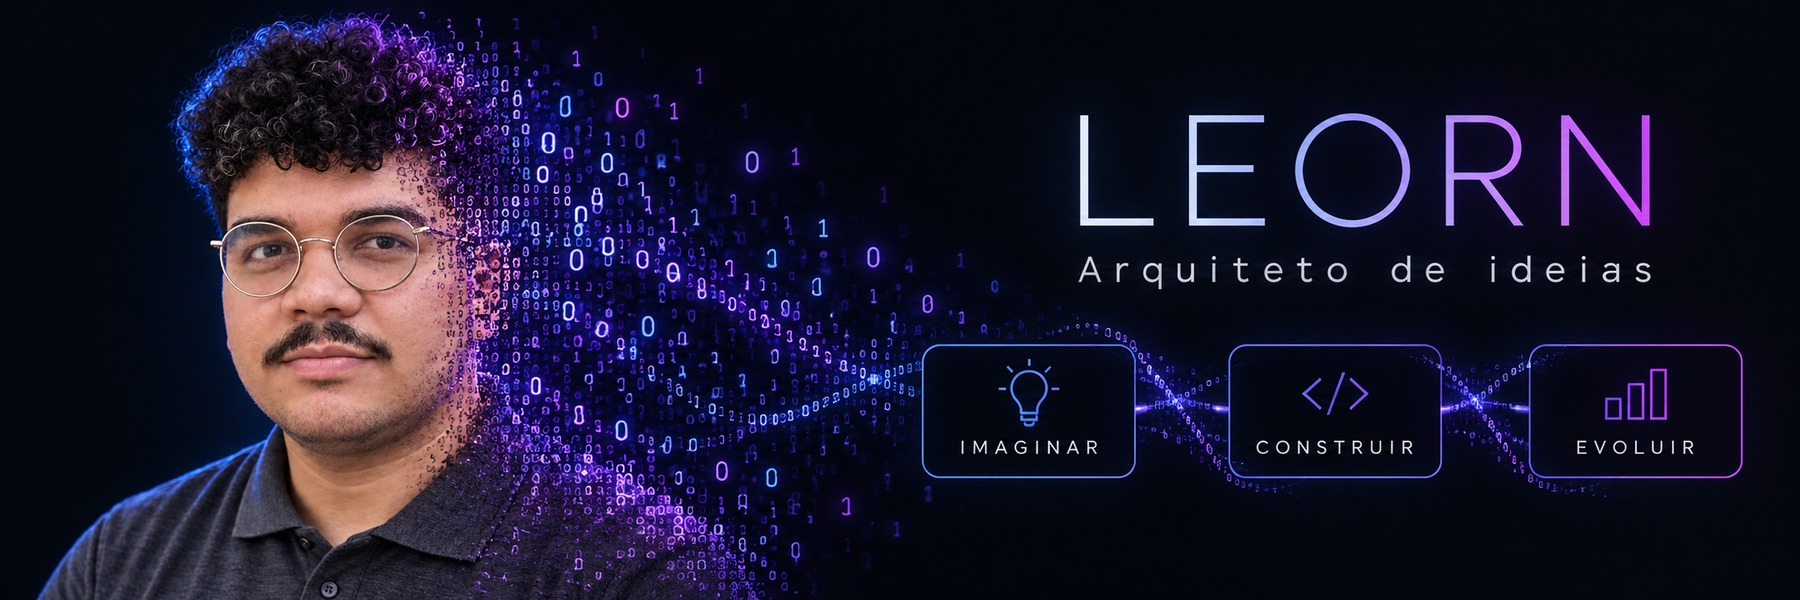
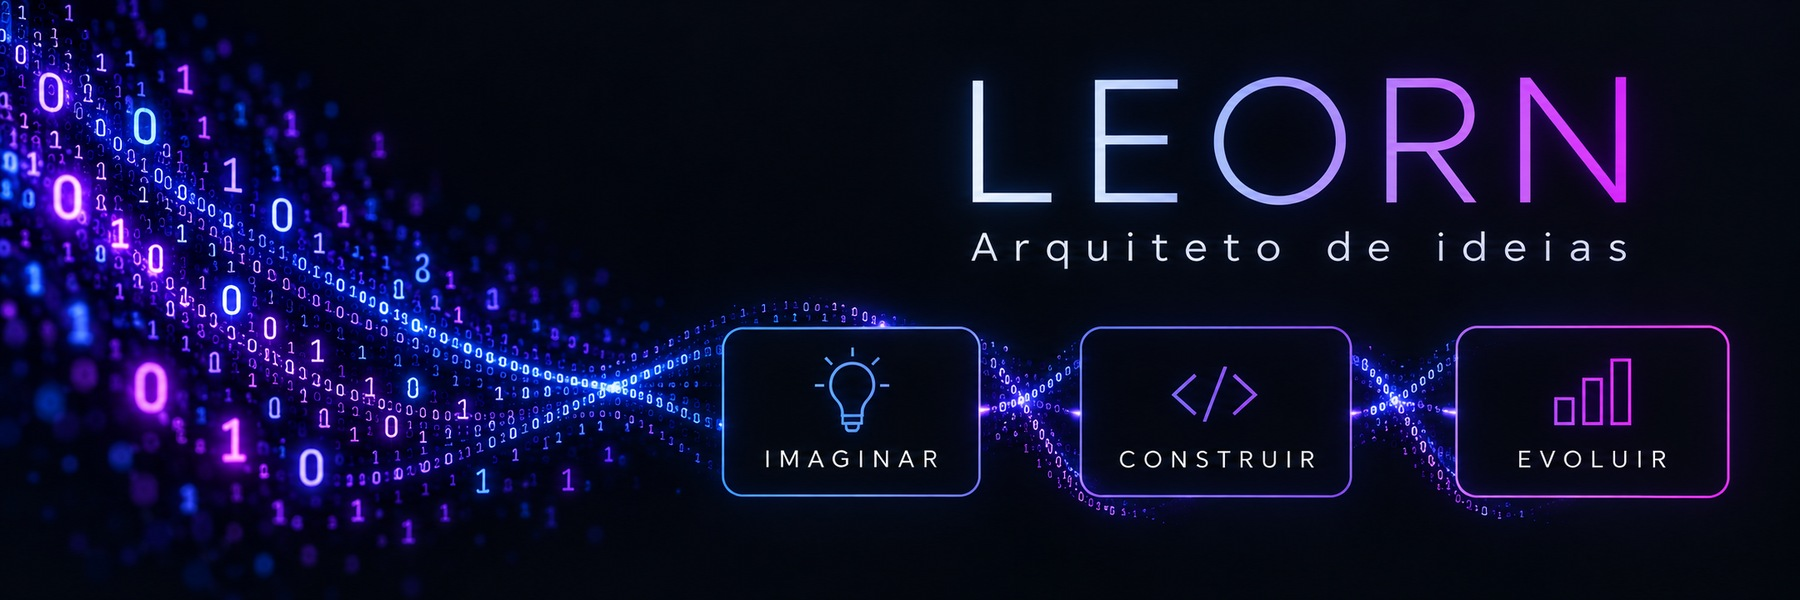
Refina identidade visual e anima gato no gabinete

diff --git a/README.md b/README.md
@@ -1,4 +1,4 @@
-<p align="center"><img src="banner.jpg" alt="Leorn — Arquiteto de ideias. Retrato se transformando em binários azuis e violetas: imaginar, construir e evoluir." width="100%" /></p>
+<p align="center"><img src="banner.jpg" alt="Leorn — Arquiteto de ideias. Binários azuis e violetas formando painéis: imaginar, construir e evoluir." width="100%" /></p>
 
 ### Ideias ganham forma por aqui.
 
@@ -26,4 +26,6 @@ Gosto de imaginar possibilidades, organizar o que precisa ser feito e experiment
 
 [LinkedIn](https://www.linkedin.com/in/srleorn/) · [Instagram](https://www.instagram.com/srleorn/)
 
-<p align="center"><img src="mascot.gif" alt="Gato preto com chapéu de mago atravessa a cena, pula numa plataforma e descansa." width="100%" /></p>
+<p align="center"><img src="mascot.gif" alt="Gato preto com chapéu de mago atravessa a cena, se prepara para saltar e descansa em cima de um gabinete neon." width="100%" /></p>
+
+
